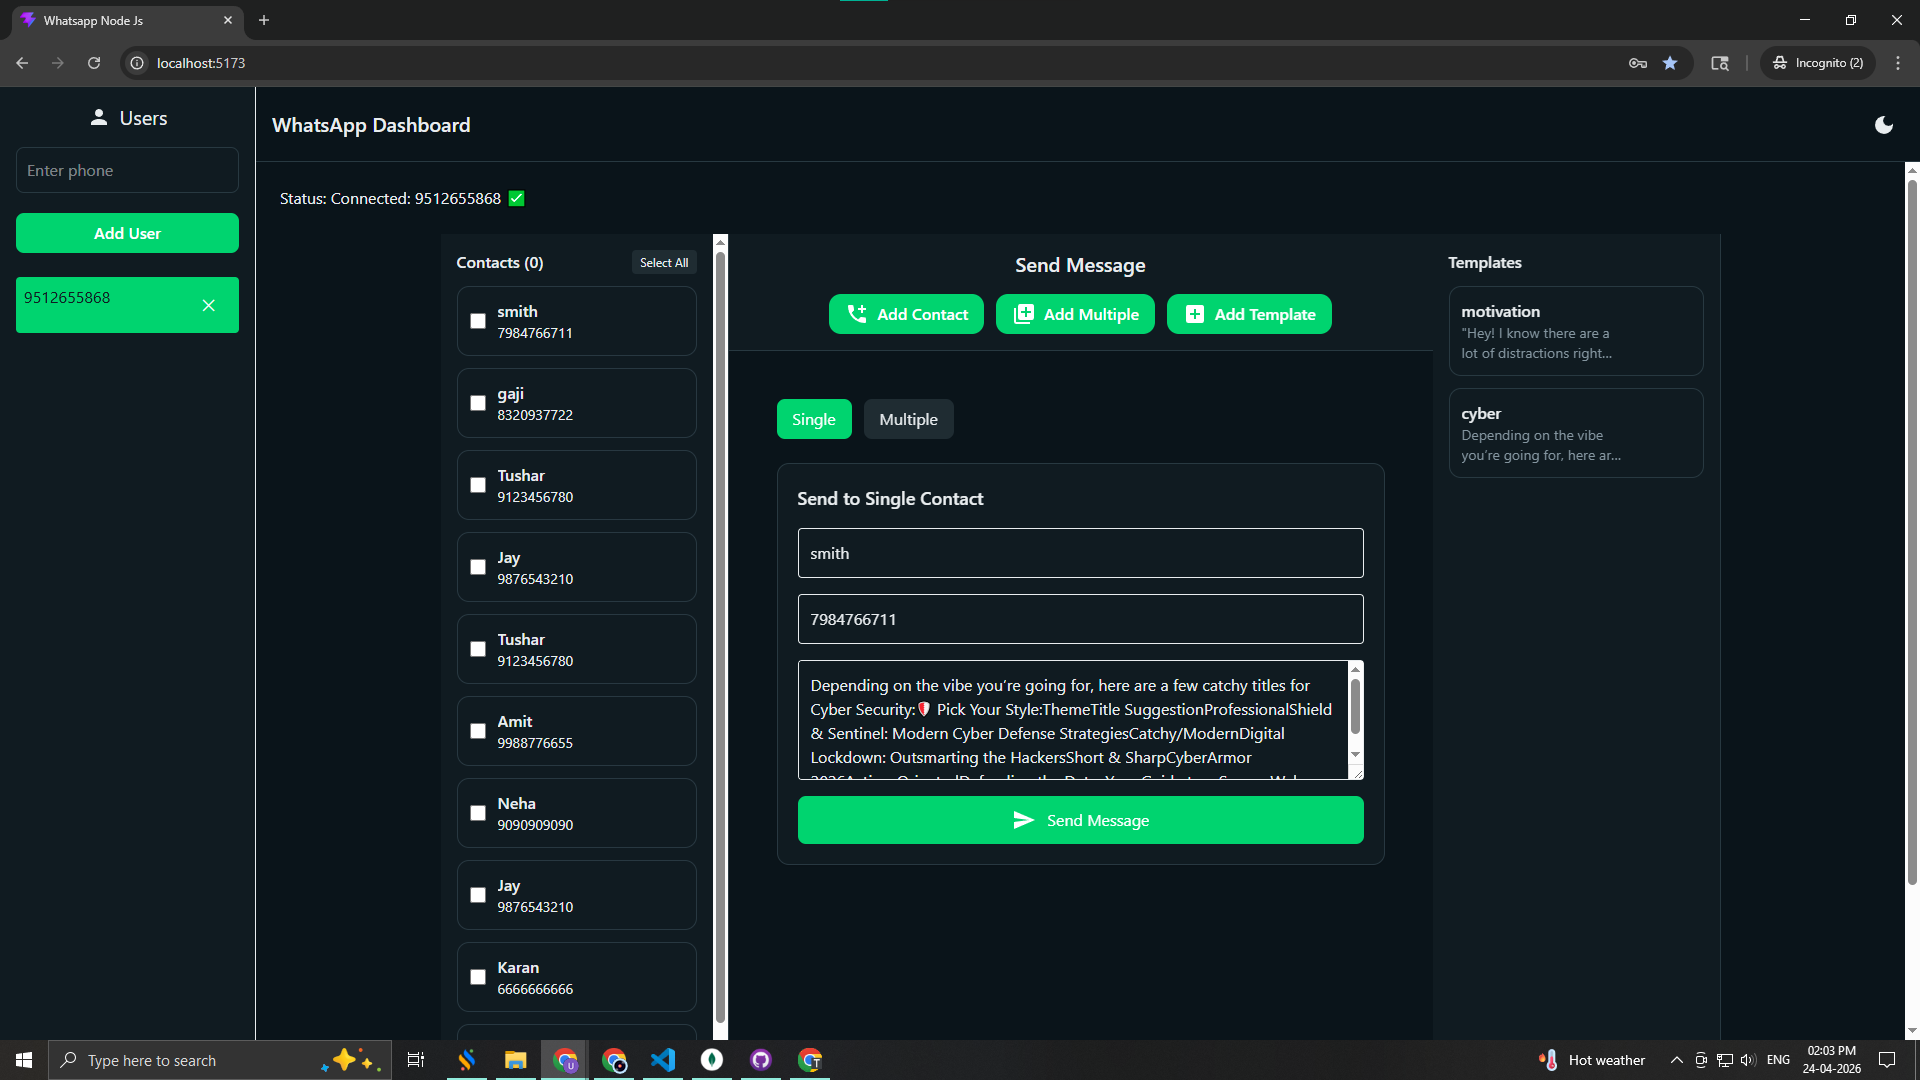
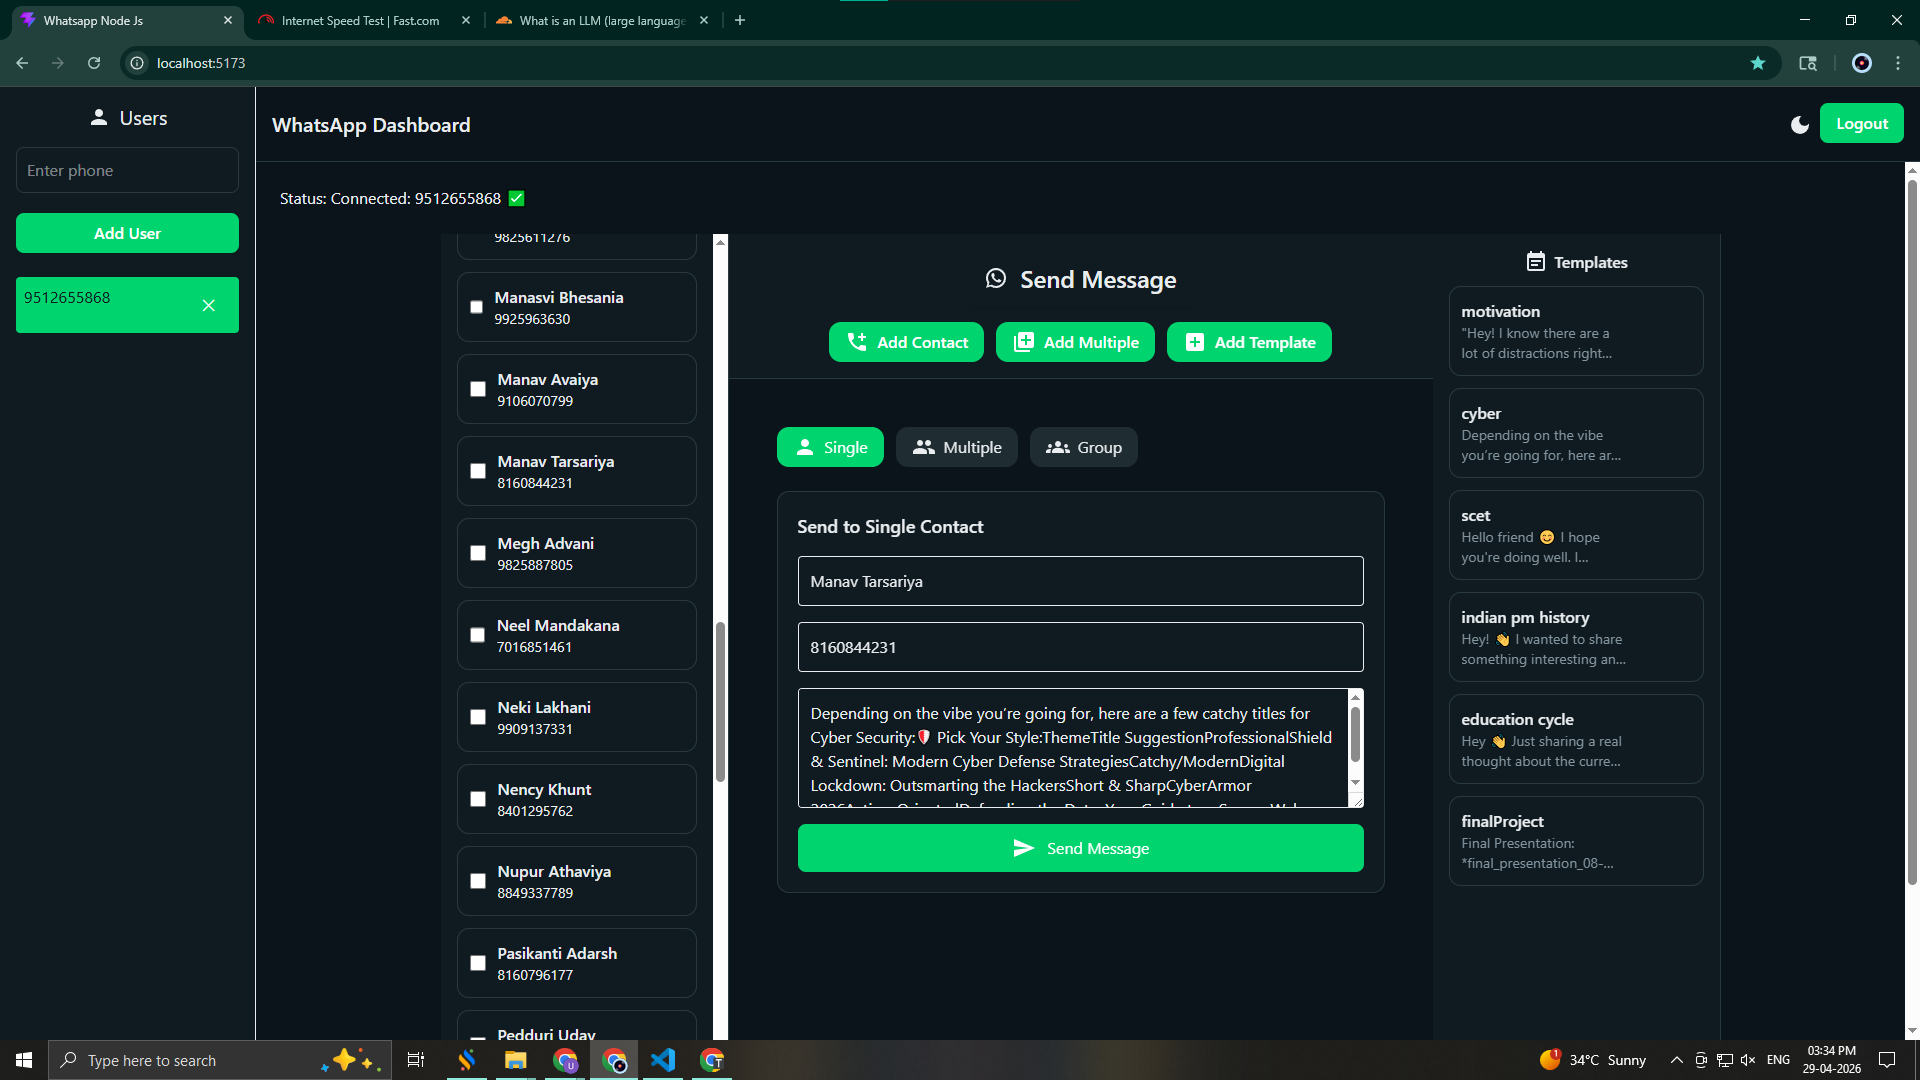
2904202606 - ui improved and docx updates

diff --git a/client/src/components/SendMessage/SendMessage.jsx b/client/src/components/SendMessage/SendMessage.jsx
@@ -35,6 +35,10 @@ import AddIcCallIcon from "@mui/icons-material/AddIcCall";
 import AddBoxIcon from "@mui/icons-material/AddBox";
 import SendIcon from "@mui/icons-material/Send";
 import LibraryAddIcon from "@mui/icons-material/LibraryAdd";
+import WhatsAppIcon from "@mui/icons-material/WhatsApp";
+import PersonIcon from "@mui/icons-material/Person";
+import PeopleIcon from "@mui/icons-material/People";
+import GroupsIcon from "@mui/icons-material/Groups";
 
 function SendMessage({ sessionId }) {
   const [number, setNumber] = useState("");
@@ -265,8 +269,13 @@ Thank you for your cooperation.`;
       <div className="flex-1 flex justify-center">
         <div className="w-full max-w-3xl flex flex-col">
           <div className="flex flex-col gap-4 p-4 border-b border-(--border) bg-(--card)">
-            <div className="items-center text-center ">
-              <h2 className="text-xl font-semibold">Send Message</h2>
+            <div className="flex justify-center">
+              <div className="flex items-center gap-3 px-6 py-3 rounded-2xl shadow-md cursor-pointer">
+                <WhatsAppIcon className=" text-3xl" />
+                <h2 className="text-xl md:text-2xl font-semibold ">
+                  Send Message
+                </h2>
+              </div>
             </div>
 
             <div className="flex flex-wrap gap-3 justify-center">
@@ -345,13 +354,13 @@ Thank you for your cooperation.`;
                         setIsMultiple(false);
                         setIsGroup(false);
                       }}
-                      className={`px-4 py-2 rounded-lg ${
+                      className={`flex items-center gap-2 px-4 py-2 rounded-xl ${
                         !isMultiple && !isGroup
                           ? "bg-(--btn-primary-bg) text-white"
                           : "bg-(--bg-secondary)"
                       }`}
                     >
-                      Single
+                      <PersonIcon /> Single
                     </button>
 
                     <button
@@ -359,12 +368,13 @@ Thank you for your cooperation.`;
                         setIsMultiple(true);
                         setIsGroup(false);
                       }}
-                      className={`px-4 py-2 rounded-lg ${
+                      className={`flex items-center gap-2 px-4 py-2 rounded-xl ${
                         isMultiple
                           ? "bg-(--btn-primary-bg) text-white"
                           : "bg-(--bg-secondary)"
                       }`}
                     >
+                      <PeopleIcon />
                       Multiple
                     </button>
 
@@ -373,12 +383,13 @@ Thank you for your cooperation.`;
                         setIsMultiple(false);
                         setIsGroup(true);
                       }}
-                      className={`px-4 py-2 rounded-lg ${
+                      className={`flex items-center gap-2 px-4 py-2 rounded-xl  ${
                         isGroup
                           ? "bg-(--btn-primary-bg) text-white"
                           : "bg-(--bg-secondary)"
                       }`}
                     >
+                      <GroupsIcon />
                       Group
                     </button>
                   </div>

diff --git a/client/src/components/SendMessage/DefaultMessageSidebar.jsx b/client/src/components/SendMessage/DefaultMessageSidebar.jsx
@@ -1,11 +1,16 @@
 import EditIcon from "@mui/icons-material/Edit";
 import DeleteIcon from "@mui/icons-material/Delete";
 import Button from "../Button";
+import EventNoteIcon from "@mui/icons-material/EventNote";
 
 function DefaultMessageSidebar({ onSelect, onEdit, onDelete, defaulMessages }) {
   return (
     <div className="w-72 min-h-screen max-h-screen p-4 bg-(--sidebar) border-r border-(--border) overflow-y-auto">
-      <h3 className="mb-3 font-semibold text-(--text-primary)">Templates</h3>
+      <h3 className="mb-3 font-semibold text-(--text-primary) flex justify-center gap-1.5">
+        <EventNoteIcon />
+        {" "}
+        Templates
+      </h3>
 
       {defaulMessages.length === 0 && (
         <p className="text-sm text-(--text-secondary)">No templates found</p>

diff --git a/README.md b/README.md
@@ -94,17 +94,10 @@ Create reusable message templates.
 
 ## 👥 WhatsApp Group Messaging (NEW 🔥)
 
-### 🟢 Fetch Groups
-
-Automatically fetch all WhatsApp groups linked to the session.
-![Fetch Groups](./utils/version-04/groupsList.png)
-
----
-
 ### 🟢 Send Message to Group
 
 Send messages directly to selected WhatsApp groups.
-![Group Message](./utils/version-04/groupMessage.png)
+![Group Message](./utils/version-04/groupMessageSending.png)
 
 ---
 
@@ -158,16 +151,6 @@ Tracks progress of messages sent to multiple users:
 
 ![Bulk Status](./utils/version-04/mutltipleMessage.png)
 
----
-### 🟢 Bulk Group Status 🔥
-
-Tracks progress of messages sent to multiple  groups:
-
-* 📤 Sending Progress
-* ✅ Success Count
-* ❌ Failed Messages
-
-![Bulk Status](./utils/version-04/groupMessageSending.png)
 
 ---
 # ⚙ Key Features
